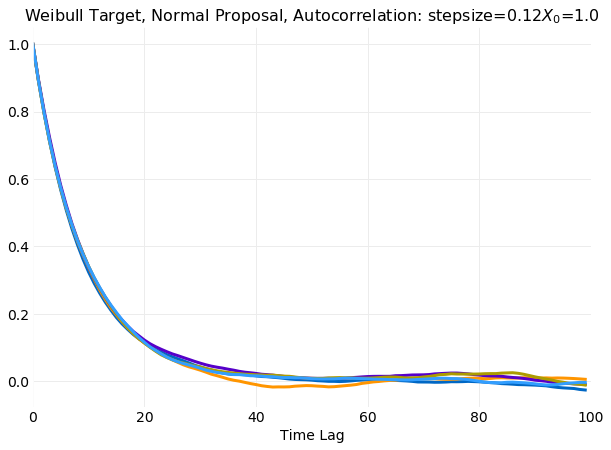
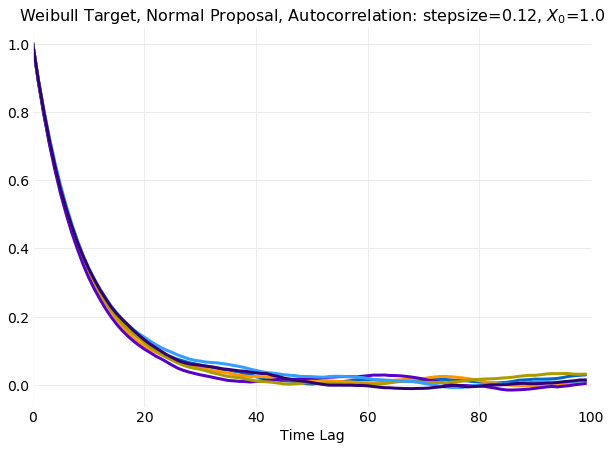
added thin time series plots

diff --git a/hydrogen_notebooks/mcmc/metropolis_hastings/weibull_target/normal_proposal_thinning.py b/hydrogen_notebooks/mcmc/metropolis_hastings/weibull_target/normal_proposal_thinning.py
@@ -20,7 +20,7 @@ k = 5.0
 x0 = 1.0
 target_pdf = stats.weibull(k, λ)
 
-nsample = 100000
+nsample = 50000
 burn_in = 10000
 stepsize = 0.12
 nsimulations = 6
@@ -41,7 +41,7 @@ all_accepted = numpy.array(all_accepted)
 
 # %%
 
-title = title = r"Weibull Target, Normal Proposal, Autocorrelation: " + f"stepsize={format(stepsize, '2.2f')}, " + r"$X_0$="+f"{format(x0, '2.1f')}"
+title = r"Weibull Target, Normal Proposal, Autocorrelation: " + f"stepsize={format(stepsize, '2.2f')}, " + r"$X_0$="+f"{format(x0, '2.1f')}"
 nplot = len(all_samples)
 
 figure, axis = pyplot.subplots(figsize=(10, 7))
@@ -56,7 +56,7 @@ config.save_post_asset(figure, "metropolis_hastings_sampling", "normal_proposal_
 
 # %%
 
-title = title = r"Weibull Target, Normal Proposal, Autocorrelation: " + f"stepsize={format(stepsize, '2.2f')}, " + r"$X_0$="+f"{format(x0, '2.1f')}"
+title = r"Weibull Target, Normal Proposal, Autocorrelation: " + f"stepsize={format(stepsize, '2.2f')}, " + r"$X_0$="+f"{format(x0, '2.1f')}"
 nlag = 100
 nplot = len(all_samples)
 
@@ -65,9 +65,9 @@ axis.set_title(title)
 axis.set_xlabel("Time Lag")
 axis.set_xlim([0.0, nlag])
 for i in range(nplot):
-    thinned_range = range(burn_in, nsample, thin[i])
+    thinned_range = range(burn_in, nsample, i+1)
     ac = stats.autocorrelate(all_samples[i][thinned_range])
-    axis.plot(range(nlag), numpy.real(ac[:nlag]), label=f"thinning step={format(thin[i], '2.0f')}")
+    axis.plot(range(nlag), numpy.real(ac[:nlag]), label=f"η={format(i+1, '2.0f')}")
 axis.legend(bbox_to_anchor=(0.9, 0.8))
 config.save_post_asset(figure, "metropolis_hastings_sampling", "normal_proposal_thinning-thined-autocorrelation")
 
@@ -82,13 +82,13 @@ axis.set_xlabel("Time")
 axis.set_ylabel(r"$μ$")
 axis.set_title(title)
 axis.set_xlim([1.0, nsample])
-axis.set_ylim([-0.2, 1.7])
-axis.yaxis.set_ticks([0.0, 0.5, 1.0, 1.5])
+axis.set_ylim([-0.2, 1.2])
+axis.yaxis.set_ticks([0.0, 0.25, 0.5, 0.75, 1.0])
 axis.semilogx(range(0, nsample - burn_in), numpy.full(nsample - burn_in, μ), label="Target μ", color="#000000")
 for i in range(nplot):
-    thinned_range = range(burn_in, nsample, thin[i])
-    axis.semilogx(range(0, nsample - burn_in, thin[i]), stats.cummean(all_samples[i][thinned_range]), label=f"thinning step={format(thin[i], '2.0f')}")
-axis.legend(bbox_to_anchor=(0.6, 0.5))
+    thinned_range = range(burn_in, nsample, i+1)
+    axis.semilogx(range(0, nsample - burn_in, i+1), stats.cummean(all_samples[i][thinned_range]), label=f"η={format(i+1, '2.0f')}")
+axis.legend(bbox_to_anchor=(0.95, 0.6))
 config.save_post_asset(figure, "metropolis_hastings_sampling", "normal_proposal_thinning-mean-convergence")
 
 # %%
@@ -102,25 +102,32 @@ axis.set_xlabel("Time")
 axis.set_ylabel(r"$μ$")
 axis.set_title(title)
 axis.set_xlim([1.0, nsample])
-axis.set_ylim([-0.1, 0.6])
-axis.yaxis.set_ticks([0.0, 0.1, 0.2, 0.3, 0.4, 0.5])
+axis.set_ylim([-0.01, 0.35])
+axis.yaxis.set_ticks([0.0, 0.1, 0.2, 0.3])
 axis.semilogx(range(0, nsample - burn_in), numpy.full(nsample - burn_in, σ), label="Target μ", color="#000000")
 for i in range(nplot):
-    thinned_range = range(burn_in, nsample, thin[i])
-    axis.semilogx(range(0, nsample - burn_in, thin[i]), stats.cumsigma(all_samples[i][thinned_range]), label=f"thinning step={format(thin[i], '2.0f')}")
-axis.legend(bbox_to_anchor=(0.6, 0.55))
+    thinned_range = range(burn_in, nsample, i+1)
+    axis.semilogx(range(0, nsample - burn_in, i+1), stats.cumsigma(all_samples[i][thinned_range]), label=f"η={format(i+1, '2.0f')}")
+axis.legend(bbox_to_anchor=(0.95, 0.55))
 config.save_post_asset(figure, "metropolis_hastings_sampling", "normal_proposal_thinning-sigms-convergence")
 
 # %%
 
-figure, axis = pyplot.subplots(nrows=nplots, ncols=1, sharex=True, figsize=(10, 3*nplots))
+thin = [1, 2, 5]
+plot_range = [20000, 21000]
+time = numpy.array(range(nsample))
+text_pos = [20100, 0.2]
+title = r"Weibull Target, Normal Proposal, Thined Time Series: " + f"stepsize={format(stepsize, '2.2f')}, " + r"$X_0$="+f"{format(x0, '2.1f')}"
+
+figure, axis = pyplot.subplots(nrows=3, ncols=1, sharex=True, figsize=(10, 9))
 axis[0].set_title(title)
 axis[-1].set_xlabel("Time")
 
 bbox = dict(boxstyle='square,pad=1', facecolor="#FFFFFF", edgecolor="white", alpha=0.75)
-for i in range(nplots):
-    axis[i].set_xlim([time[0], time[-1] + 1])
-    axis[i].set_ylim(ylim)
-    axis[i].plot(time, samples[i], lw="2")
-    axis[i].text(text_pos[0], text_pos[1], f"stepsize={format(stepsize[i], '2.2f')}", fontsize=13, bbox=bbox)
+for i in range(3):
+    thinned_range = range(plot_range[0], plot_range[1], thin[i])
+    axis[i].set_xlim([plot_range[0], plot_range[-1]])
+    axis[i].set_ylim([-0.2, 1.7])
+    axis[i].plot(time[thinned_range], all_samples[i][thinned_range], lw="2")
+    axis[i].text(text_pos[0], text_pos[1], f"η={format(thin[i], '2.0f')}", fontsize=15, bbox=bbox)
 config.save_post_asset(figure, "metropolis_hastings_sampling", "normal_proposal_thinning-time-series")
